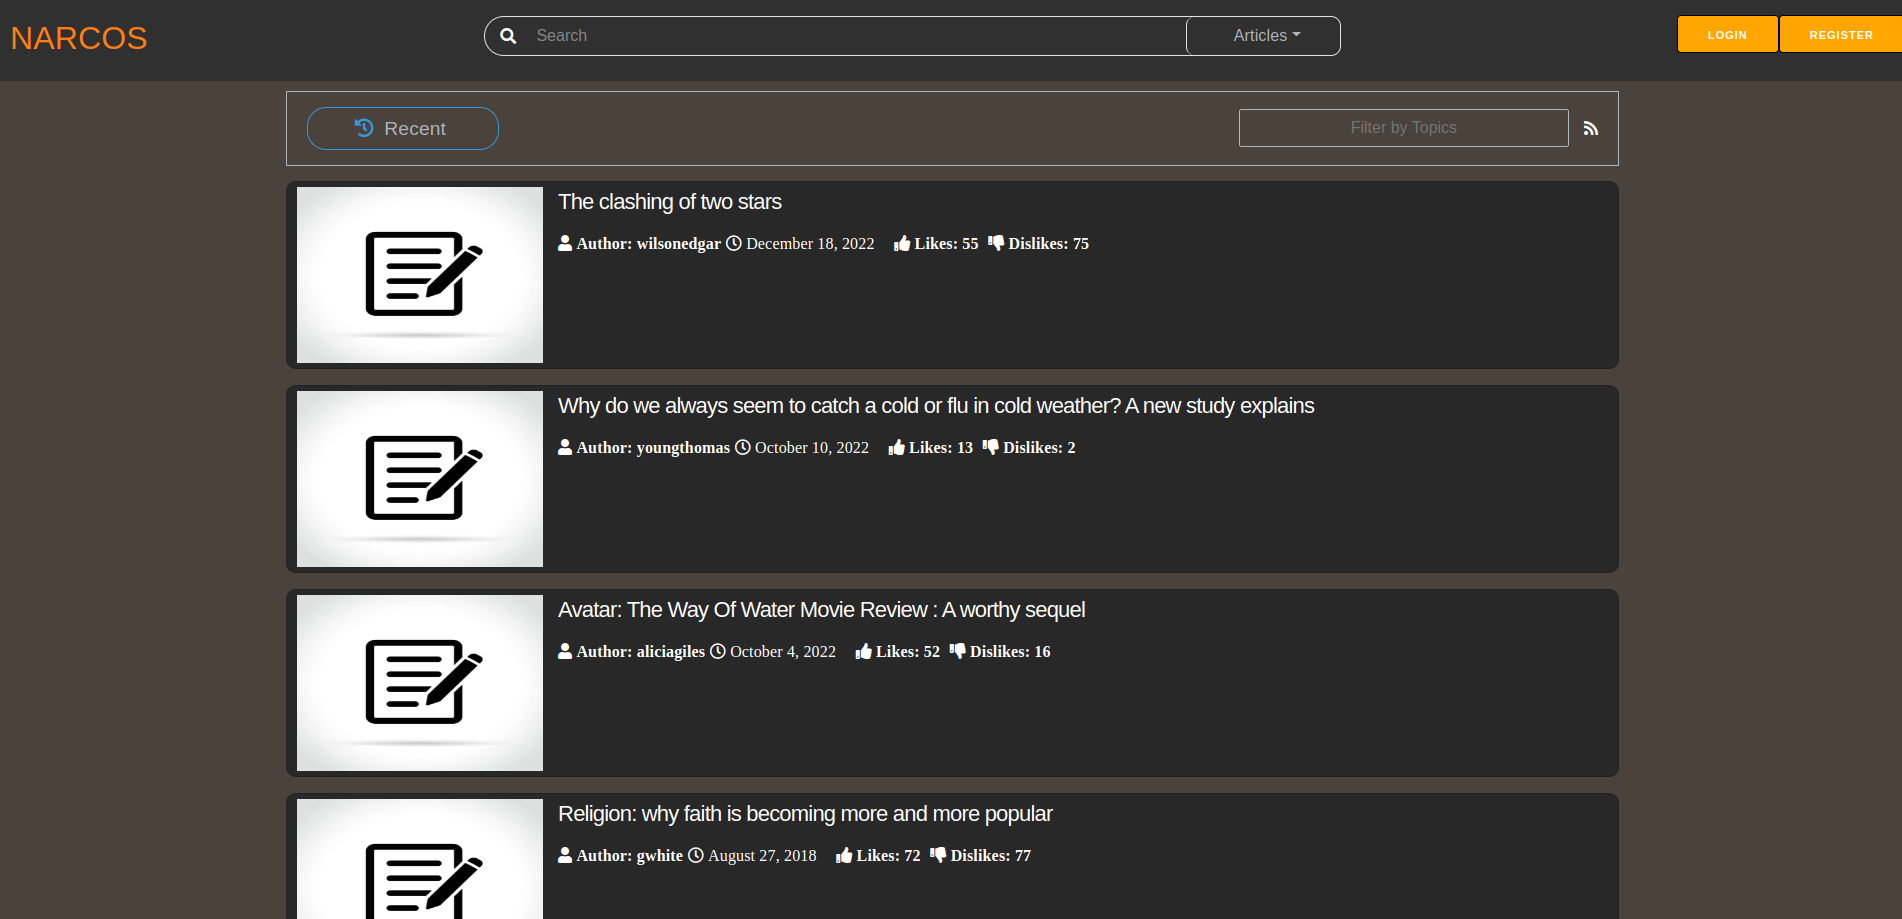
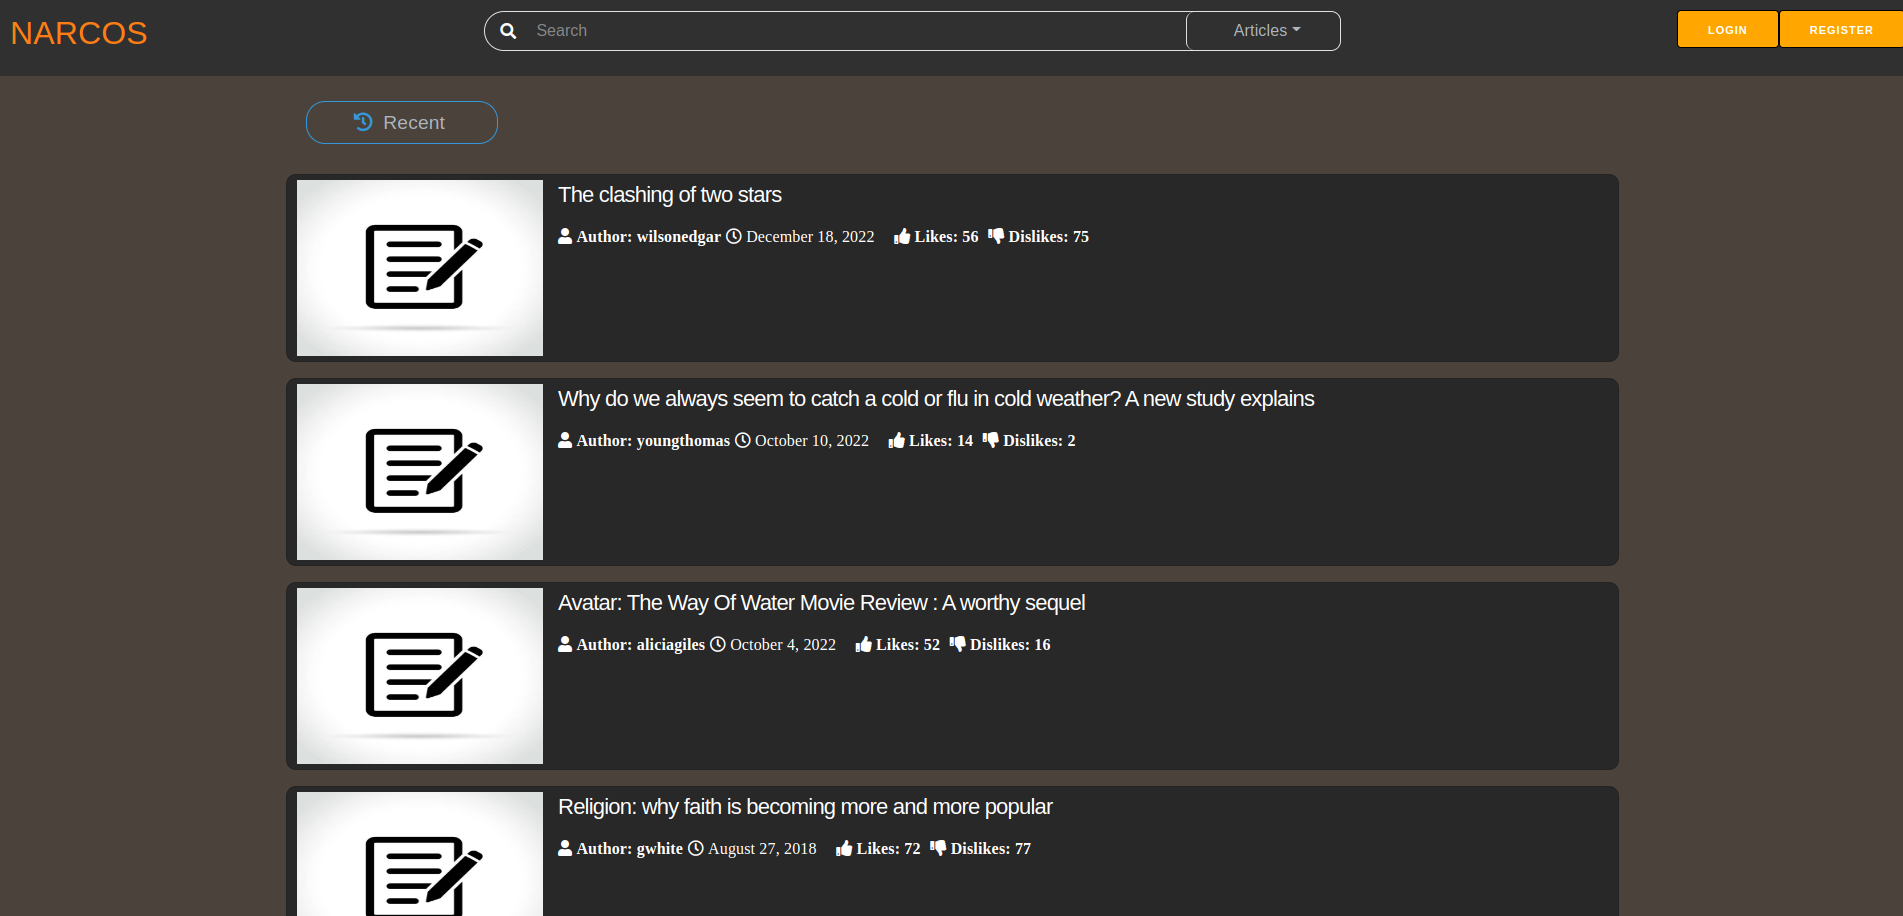
Remove Jquery

Changed region(s): [[0.1551, 0.4585, 0.8686, 1.0], [0.0, 0.0, 1.0, 0.2751], [0.1551, 0.2445, 0.8686, 0.5197]]

diff --git a/resources/views/pages/home.blade.php b/resources/views/pages/home.blade.php
@@ -1,7 +1,6 @@
 @extends('layouts.app')
 
 @section('scripts')
-    <script type="text/javascript" src="https://cdn.jsdelivr.net/jquery/latest/jquery.min.js"></script>
     <script type="text/javascript" src="https://cdn.jsdelivr.net/npm/select2@4.1.0-rc.0/dist/js/select2.min.js"></script>
 
     <script type="text/javascript" src="https://cdn.jsdelivr.net/momentjs/latest/moment.min.js"></script>
@@ -12,7 +11,7 @@
 
 @section('filters')
     <section>
-        <div id="filterSection" class="d-none d-lg-flex flex-row align-items-center border border-light py-4 px-2 mt-3 mb-4 overflow-hidden">
+        <div id="filterSection" class="d-none d-lg-flex flex-row align-items-center py-4 px-2 mt-3 mb-4 overflow-hidden">
             @if (Auth::check())
                 <label data-bs-toggle="tooltip" data-bs-placement="bottom" title="Create an Article"
                     for="createArticleIcon">
@@ -37,14 +36,6 @@
                     </label>
                 @endif
             </div>
-            <select id="filterTopics" multiple>
-                @foreach($topics as $topic)
-                    <option value="{{ $topic['id'] }}">
-                        {{ $topic['subject'] }}
-                    </option>
-                @endforeach
-            </select>
-            <i class="fa fa-feed filter-tag mx-4 my-auto"></i>
         </div>
 </section>
 @endsection

diff --git a/resources/views/pages/user/editProfile.blade.php b/resources/views/pages/user/editProfile.blade.php
@@ -8,7 +8,6 @@ $isOpen = $errors->has('password');
 
 @section('scripts')
 
-    <script src="https://cdnjs.cloudflare.com/ajax/libs/jquery/3.3.1/jquery.min.js"></script>
     <script src="https://cdn.jsdelivr.net/npm/select2@4.1.0-rc.0/dist/js/select2.min.js"></script>
     <script type="text/javascript" src="https://cdn.jsdelivr.net/momentjs/latest/moment.min.js"></script>
 
@@ -57,7 +56,7 @@ $isOpen = $errors->has('password');
 
                     <select id="favoriteTopics" name="favoriteTopics[]" multiple>
                         @foreach ($topics as $topic)
-                            <option class="m-0" @if (old('favoriteTopics') ? in_array($topic['id'], old('favoriteTopics')) : $favoriteTopics->contains('id', $topic['id']))
+                            <option class="m-10" @if (old('favoriteTopics') ? in_array($topic['id'], old('favoriteTopics')) : $favoriteTopics->contains('id', $topic['id']))
                                 selected
                         @endif
                         value="{{ $topic['id'] }}">{{ $topic['subject'] }}</option>

diff --git a/resources/views/pages/article/edit_article.blade.php b/resources/views/pages/article/edit_article.blade.php
@@ -1,7 +1,6 @@
 @extends('layouts.app')
 
 @section('scripts')
-    <script src="https://cdnjs.cloudflare.com/ajax/libs/jquery/3.3.1/jquery.min.js"></script>
     <script src="https://cdn.jsdelivr.net/npm/select2@4.1.0-rc.0/dist/js/select2.min.js"></script>
      <script type="text/javascript" src="{{ asset('js/user.js') }}"></script>
     <script type="text/javascript" src=" {{ asset('js/select2topics.js') }}"> </script>

diff --git a/resources/views/pages/article/create_article.blade.php b/resources/views/pages/article/create_article.blade.php
@@ -1,7 +1,6 @@
 @extends('layouts.app')
 
 @section('scripts')
-    <script src="https://cdnjs.cloudflare.com/ajax/libs/jquery/3.3.1/jquery.min.js"></script>
     <script src="https://cdn.jsdelivr.net/npm/select2@4.1.0-rc.0/dist/js/select2.min.js"></script>
     <script type="text/javascript" src="{{ asset('js/user.js') }}"></script>
     <script type="text/javascript" src=" {{ asset('js/select2topics.js') }}"> </script>
